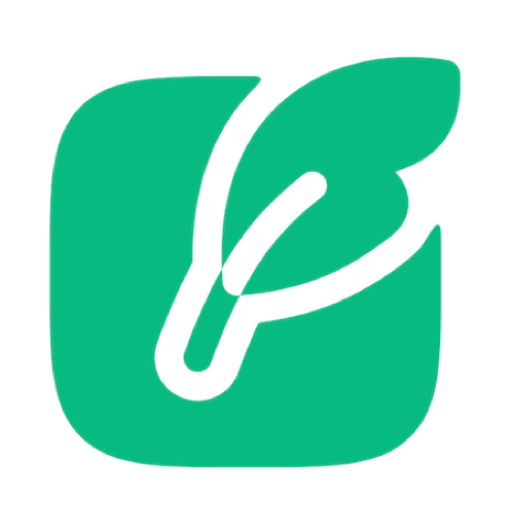
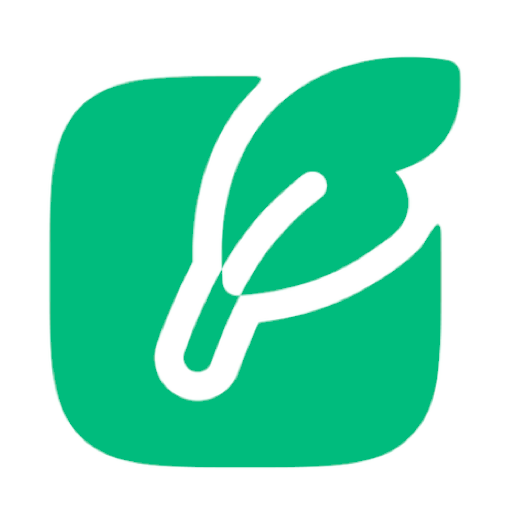
Brighten primary accent colors and add primary-550 shade

diff --git a/app/assets/stylesheets/custom/forms.css b/app/assets/stylesheets/custom/forms.css
@@ -1,9 +1,9 @@
 @utility form-input {
-  @apply appearance-none block shadow-sm rounded-[0.625rem] border border-neutral-300 dark:border-neutral-800 dark:bg-neutral-900 focus:outline-hidden focus:ring-2 focus:ring-primary-600 px-3 py-2 w-full caret-primary-600 placeholder:text-neutral-400 dark:placeholder:text-neutral-500 placeholder:select-none placeholder:font-normal;
+  @apply appearance-none block shadow-sm rounded-[0.625rem] border border-neutral-300 dark:border-neutral-800 dark:bg-neutral-900 focus:outline-hidden focus:ring-2 focus:ring-primary-500 px-3 py-2 w-full caret-primary-500 placeholder:text-neutral-400 dark:placeholder:text-neutral-500 placeholder:select-none placeholder:font-normal;
 }
 
 @utility form-input-transparent {
-  @apply appearance-none block focus:outline-hidden py-2 w-full caret-primary-600 placeholder:text-neutral-400 dark:placeholder:text-neutral-500 placeholder:select-none placeholder:font-normal;
+  @apply appearance-none block focus:outline-hidden py-2 w-full caret-primary-500 placeholder:text-neutral-400 dark:placeholder:text-neutral-500 placeholder:select-none placeholder:font-normal;
 }
 
 @utility form-label {
@@ -15,11 +15,11 @@
 }
 
 @utility form-select {
-  @apply block shadow-sm rounded-[0.625rem] border border-neutral-300 dark:border-neutral-800 dark:bg-neutral-900 focus:outline-hidden focus:ring-2 focus:ring-primary-600 pl-3 pr-6 py-2 w-full caret-primary-600 placeholder:text-neutral-400 dark:placeholder:text-neutral-500 placeholder:select-none placeholder:font-normal;
+  @apply block shadow-sm rounded-[0.625rem] border border-neutral-300 dark:border-neutral-800 dark:bg-neutral-900 focus:outline-hidden focus:ring-2 focus:ring-primary-500 pl-3 pr-6 py-2 w-full caret-primary-500 placeholder:text-neutral-400 dark:placeholder:text-neutral-500 placeholder:select-none placeholder:font-normal;
 }
 
 @utility form-textarea {
-  @apply appearance-none block shadow-sm rounded-[0.625rem] border border-neutral-300 dark:border-neutral-800 dark:bg-neutral-900 focus:outline-hidden focus:ring-2 focus:ring-primary-600 p-4 w-full min-h-[120px] resize-y caret-primary-600 placeholder:text-neutral-400 dark:placeholder:text-neutral-500 placeholder:select-none placeholder:font-normal;
+  @apply appearance-none block shadow-sm rounded-[0.625rem] border border-neutral-300 dark:border-neutral-800 dark:bg-neutral-900 focus:outline-hidden focus:ring-2 focus:ring-primary-500 p-4 w-full min-h-[120px] resize-y caret-primary-500 placeholder:text-neutral-400 dark:placeholder:text-neutral-500 placeholder:select-none placeholder:font-normal;
 }
 
 .form-textarea-wrap {
@@ -55,7 +55,7 @@
 }
 
 @utility form-checkbox {
-  @apply cursor-pointer appearance-none size-4.5 border border-neutral-300 dark:border-neutral-700 rounded-sm bg-white dark:bg-neutral-800 mt-0.25 shrink-0 checked:bg-primary-600 checked:border-0 focus:outline-none focus-visible:ring-2 focus-visible:ring-primary-600 disabled:border-neutral-400 disabled:bg-neutral-200 transition duration-80;
+  @apply cursor-pointer appearance-none size-4.5 border border-neutral-300 dark:border-neutral-700 rounded-sm bg-white dark:bg-neutral-800 mt-0.25 shrink-0 checked:bg-primary-500 checked:border-0 focus:outline-none focus-visible:ring-2 focus-visible:ring-primary-500 disabled:border-neutral-400 disabled:bg-neutral-200 transition duration-80;
 
   & + svg {
     @apply size-3.5 text-white absolute translate-y-[0.22rem] translate-x-0.5 pointer-events-none;
@@ -77,7 +77,7 @@
 }
 
 @utility form-switch {
-  @apply form-switch-vars relative cursor-pointer appearance-none shrink-0 w-9 h-5 rounded-(--form-switch-radius) bg-neutral-200 dark:bg-neutral-700 inset-shadow-xs inset-shadow-neutral-900/10 checked:bg-primary-600 focus:outline-none focus-visible:ring-2 focus-visible:ring-primary-600 focus-visible:ring-offset-2 dark:focus-visible:ring-offset-neutral-925 disabled:cursor-not-allowed disabled:opacity-50 transition-colors duration-150;
+  @apply form-switch-vars relative cursor-pointer appearance-none shrink-0 w-9 h-5 rounded-(--form-switch-radius) bg-neutral-200 dark:bg-neutral-700 inset-shadow-xs inset-shadow-neutral-900/10 checked:bg-primary-500 focus:outline-none focus-visible:ring-2 focus-visible:ring-primary-500 focus-visible:ring-offset-2 dark:focus-visible:ring-offset-neutral-925 disabled:cursor-not-allowed disabled:opacity-50 transition-colors duration-150;
 
   & ~ .form-label {
     @apply mb-0! cursor-pointer;
@@ -101,11 +101,11 @@
   --form-number-border: 1px;
   --form-number-padding: --spacing(0.75);
 
-  @apply relative w-full md:max-w-54 flex items-center gap-1 p-(--form-number-padding) rounded-(--form-number-radius) border-(length:--form-number-border) border-neutral-300 dark:border-neutral-800 bg-white dark:bg-neutral-900 shadow-sm select-none transition-shadow duration-80 has-[.form-number:focus]:ring-2 has-[.form-number:focus]:ring-primary-600;
+  @apply relative w-full md:max-w-54 flex items-center gap-1 p-(--form-number-padding) rounded-(--form-number-radius) border-(length:--form-number-border) border-neutral-300 dark:border-neutral-800 bg-white dark:bg-neutral-900 shadow-sm select-none transition-shadow duration-80 has-[.form-number:focus]:ring-2 has-[.form-number:focus]:ring-primary-500;
 }
 
 @utility form-number {
-  @apply appearance-none grow min-w-0 w-full bg-transparent text-center tabular-nums font-medium py-1 focus:outline-hidden caret-primary-600 placeholder:text-neutral-400 dark:placeholder:text-neutral-500 placeholder:select-none placeholder:font-normal;
+  @apply appearance-none grow min-w-0 w-full bg-transparent text-center tabular-nums font-medium py-1 focus:outline-hidden caret-primary-500 placeholder:text-neutral-400 dark:placeholder:text-neutral-500 placeholder:select-none placeholder:font-normal;
   -moz-appearance: textfield;
 
   &::-webkit-inner-spin-button,
@@ -115,7 +115,7 @@
 }
 
 @utility form-number-button {
-  @apply shrink-0 grid place-items-center size-8.5 rounded-[calc(var(--form-number-radius)-var(--form-number-border)-var(--form-number-padding))] cursor-pointer bg-neutral-100 dark:bg-neutral-800 enabled:hover:bg-neutral-200/80 dark:enabled:hover:bg-neutral-700/80 focus:outline-hidden focus-visible:ring-2 focus-visible:ring-primary-600 transition-[background-color,opacity,scale] duration-80 enabled:active:scale-95 will-change-[scale,background-color] disabled:cursor-not-allowed disabled:opacity-40;
+  @apply shrink-0 grid place-items-center size-8.5 rounded-[calc(var(--form-number-radius)-var(--form-number-border)-var(--form-number-padding))] cursor-pointer bg-neutral-100 dark:bg-neutral-800 enabled:hover:bg-neutral-200/80 dark:enabled:hover:bg-neutral-700/80 focus:outline-hidden focus-visible:ring-2 focus-visible:ring-primary-500 transition-[background-color,opacity,scale] duration-80 enabled:active:scale-95 will-change-[scale,background-color] disabled:cursor-not-allowed disabled:opacity-40;
 }
 
 @utility form-number-icon {
@@ -138,7 +138,7 @@
   @apply flex items-center select-none;
 
   label {
-    @apply relative select-none inline-flex cursor-pointer items-center justify-center rounded-lg transition-transform duration-80 hover:scale-115 active:scale-96 has-[input:focus-visible]:outline-none has-[input:focus-visible]:ring-2 has-[input:focus-visible]:ring-primary-600;
+    @apply relative select-none inline-flex cursor-pointer items-center justify-center rounded-lg transition-transform duration-80 hover:scale-115 active:scale-96 has-[input:focus-visible]:outline-none has-[input:focus-visible]:ring-2 has-[input:focus-visible]:ring-primary-500;
 
     > input[type="radio"] {
       @apply sr-only;

diff --git a/app/assets/stylesheets/custom/components.css b/app/assets/stylesheets/custom/components.css
@@ -32,7 +32,7 @@
   }
 
   &:has(> .blanket-link:focus-visible) {
-    @apply ring-2 ring-primary-600;
+    @apply ring-2 ring-primary-500;
   }
 }
 
@@ -221,7 +221,7 @@
   }
 
   &:has(> .blanket-link:focus-visible) {
-    @apply ring-2 ring-primary-600;
+    @apply ring-2 ring-primary-500;
   }
 }
 
@@ -358,7 +358,7 @@
   }
 
   &:has(:focus-visible) {
-    @apply ring-2 ring-primary-600;
+    @apply ring-2 ring-primary-500;
   }
 
   .segmented-control-content {
@@ -518,7 +518,7 @@
   }
 
   a:focus-visible & {
-    @apply ring-2 ring-primary-600 text-normal;
+    @apply ring-2 ring-primary-500 text-normal;
   }
 
   a:has(&) {
@@ -547,7 +547,7 @@
 }
 
 @utility flash-success {
-  @apply bg-primary-100 dark:bg-primary-950/70 text-primary-600 dark:text-primary-500;
+  @apply bg-primary-100 dark:bg-primary-950/70 text-primary-550 dark:text-primary-500;
 }
 
 @utility flash-error {
@@ -619,7 +619,7 @@
   }
 
   button[aria-selected="true"] & {
-    @apply text-primary-600 dark:text-primary-500 bg-primary-200/40 dark:bg-primary-950/40;
+    @apply text-primary-550 dark:text-primary-500 bg-primary-200/40 dark:bg-primary-950/40;
 
     &.tab-link-destructive {
       @apply bg-rose-200/40 dark:bg-rose-950/40 text-rose-600 dark:text-rose-500;
@@ -631,7 +631,7 @@
   }
 
   button:focus-visible & {
-    @apply bg-transparent ring-2 ring-primary-600;
+    @apply bg-transparent ring-2 ring-primary-500;
 
     &.tab-link-destructive {
       @apply ring-rose-500;
@@ -686,7 +686,7 @@
   &:focus-visible,
   a:focus-visible > &,
   &:has(> .blanket-link:focus-visible) {
-    @apply ring-2 ring-primary-600;
+    @apply ring-2 ring-primary-500;
   }
 
   /* Default (neutral) tag style */
@@ -698,7 +698,7 @@
 
   /* Filterable tags */
   &.tag-filter:not(.demo) {
-    @apply cursor-pointer hover:border-primary-100 dark:hover:border-primary-900 hover:bg-primary-50/80 dark:hover:bg-primary-900/80 hover:text-primary-500 active:scale-94;
+    @apply cursor-pointer hover:border-primary-100 dark:hover:border-primary-900 hover:bg-primary-50/80 dark:hover:bg-primary-900/80 hover:text-primary-550 dark:hover:text-primary-500 active:scale-94;
   }
 
   /* Selected state for non-status tags */
@@ -710,7 +710,7 @@
       .tag-rejected,
       .tag-accepted
     ) {
-    @apply border-primary-200 dark:border-primary-900 bg-primary-100/80 dark:bg-primary-950/80 text-primary-600;
+    @apply border-primary-200 dark:border-primary-900 bg-primary-100/80 dark:bg-primary-950/80 text-primary-550 dark:text-primary-500;
 
     > svg:not([class*="size-"]) {
       @apply size-4 first:-ml-1 last:-mr-1 cursor-pointer rounded-full p-0.5 transition-all duration-80 in-[.tag-selected:hover]:bg-rose-200/70 dark:in-[.tag-selected:hover]:bg-rose-900/70 in-[.tag-selected:hover]:text-rose-600 dark:in-[.tag-selected:hover]:text-rose-500;
@@ -888,7 +888,7 @@ static hover backgrounds.
 */
 
 @utility dropdown-trigger {
-  @apply inline-flex gap-1.5 cursor-pointer items-center justify-center rounded-lg p-1.25 text-sm font-medium bg-neutral-100 dark:bg-neutral-900 text-light hover:bg-neutral-200 dark:hover:bg-neutral-800 toggle-has-open-dropdown:bg-neutral-200 dark:toggle-has-open-dropdown:bg-neutral-800 transition-all duration-80 focus-visible:ring-2 focus-visible:ring-primary-600 focus-visible:outline-none active:scale-96 will-change-[scale,background-color];
+  @apply inline-flex gap-1.5 cursor-pointer items-center justify-center rounded-lg p-1.25 text-sm font-medium bg-neutral-100 dark:bg-neutral-900 text-light hover:bg-neutral-200 dark:hover:bg-neutral-800 toggle-has-open-dropdown:bg-neutral-200 dark:toggle-has-open-dropdown:bg-neutral-800 transition-all duration-80 focus-visible:ring-2 focus-visible:ring-primary-500 focus-visible:outline-none active:scale-96 will-change-[scale,background-color];
 
   .nav-panel & {
     @apply bg-transparent hover:bg-neutral-100 toggle-has-open-dropdown:bg-neutral-100 dark:bg-transparent dark:hover:bg-neutral-900 dark:toggle-has-open-dropdown:bg-neutral-900;
@@ -970,7 +970,7 @@ static hover backgrounds.
     @apply anchor relative z-10 inline-flex gap-1.5 cursor-pointer items-center w-full rounded-lg px-3 py-2 text-sm font-medium no-underline focus:ring-2 focus:outline-none;
 
     &.dropdown-option-primary {
-      @apply text-primary-600 dark:text-primary-500 focus:ring-primary-500 anchor-color-primary-200/40 dark:anchor-color-primary-900/40 active:bg-primary-200/60 dark:active:bg-primary-900/60;
+      @apply text-primary-550 dark:text-primary-500 focus:ring-primary-500 anchor-color-primary-200/40 dark:anchor-color-primary-900/40 active:bg-primary-200/60 dark:active:bg-primary-900/60;
     }
 
     &.dropdown-option-secondary {
@@ -1046,7 +1046,7 @@ static hover backgrounds.
 }
 
 @utility sort-direction-toggle {
-  @apply inline-flex items-center rounded-lg bg-neutral-100 dark:bg-neutral-900 p-0.5 text-xs font-medium text-muted select-none outline-none focus-visible:ring-2 focus-visible:ring-primary-600;
+  @apply inline-flex items-center rounded-lg bg-neutral-100 dark:bg-neutral-900 p-0.5 text-xs font-medium text-muted select-none outline-none focus-visible:ring-2 focus-visible:ring-primary-500;
 
   > .sort-direction-option {
     @apply inline-flex items-center gap-1 rounded-md px-2 py-1;

diff --git a/app/assets/stylesheets/custom/buttons.css b/app/assets/stylesheets/custom/buttons.css
@@ -1,5 +1,5 @@
 @utility btn {
-  @apply inline-flex cursor-pointer items-center justify-center font-medium no-underline transition-all duration-80 focus-visible:ring-2 focus-visible:ring-primary-600 focus-visible:outline-none active:scale-96;
+  @apply inline-flex cursor-pointer items-center justify-center font-medium no-underline transition-all duration-80 focus-visible:ring-2 focus-visible:ring-primary-500 focus-visible:outline-none active:scale-96;
 
   &:not(.btn-xs, .btn-sm, .btn-lg) {
     @apply gap-2 px-4 py-2 text-sm rounded-lg;
@@ -42,7 +42,7 @@
 
 @utility btn-primary {
   &:not(.btn-muted) {
-    @apply bg-primary-600 dark:bg-primary-700 text-white hover:bg-primary-700 dark:hover:bg-primary-600 focus-visible:ring-offset-2;
+    @apply bg-primary-500 dark:bg-primary-550 text-white hover:bg-primary-550 dark:hover:bg-primary-600 focus-visible:ring-offset-2;
 
     &:not(.btn-sm, .btn-lg) {
       @apply not-dark:shadow-md;
@@ -58,7 +58,7 @@
   }
 
   &.btn-muted {
-    @apply text-primary-600 dark:text-primary-500 bg-primary-200/40 hover:bg-primary-200/60 active:bg-primary-200/80 dark:bg-primary-900/40 dark:hover:bg-primary-900/60 dark:active:bg-primary-900/80;
+    @apply text-primary-550 dark:text-primary-500 bg-primary-200/40 hover:bg-primary-200/60 active:bg-primary-200/80 dark:bg-primary-900/40 dark:hover:bg-primary-900/60 dark:active:bg-primary-900/80;
   }
 }
 
@@ -82,7 +82,7 @@
   @apply bg-transparent;
 
   &:not(.btn-muted) {
-    @apply text-primary-600 hover:bg-primary-200/40 active:bg-primary-200/60 dark:hover:bg-primary-900/40 dark:active:bg-primary-900/60;
+    @apply text-primary-550 dark:text-primary-500 hover:bg-primary-200/40 active:bg-primary-200/60 dark:hover:bg-primary-900/40 dark:active:bg-primary-900/60;
   }
 
   &.btn-muted {
@@ -91,11 +91,11 @@
 }
 
 @utility btn-link {
-  @apply cursor-pointer text-light hover:text-normal underline text-sm underline transition-colors duration-80 focus-visible:ring-2 focus-visible:ring-primary-600 outline-none rounded-sm p-0.5 -m-0.5;
+  @apply cursor-pointer text-light hover:text-normal underline text-sm underline transition-colors duration-80 focus-visible:ring-2 focus-visible:ring-primary-500 outline-none rounded-sm p-0.5 -m-0.5;
 }
 
 @utility btn-link-primary {
-  @apply text-primary-600 focus:ring-primary-500 hover:text-primary-500 underline;
+  @apply text-primary-550 dark:text-primary-500 focus:ring-primary-500 hover:text-primary-600 dark:hover:text-primary-400 underline;
 }
 
 @utility btn-link-muted {

diff --git a/app/assets/tailwind/application.css b/app/assets/tailwind/application.css
@@ -21,6 +21,7 @@
   --color-primary-300: var(--color-emerald-300);
   --color-primary-400: var(--color-emerald-400);
   --color-primary-500: var(--color-emerald-500);
+  --color-primary-550: color-mix(in oklch, var(--color-primary-500), var(--color-primary-600));
   --color-primary-600: var(--color-emerald-600);
   --color-primary-700: var(--color-emerald-700);
   --color-primary-800: var(--color-emerald-800);
